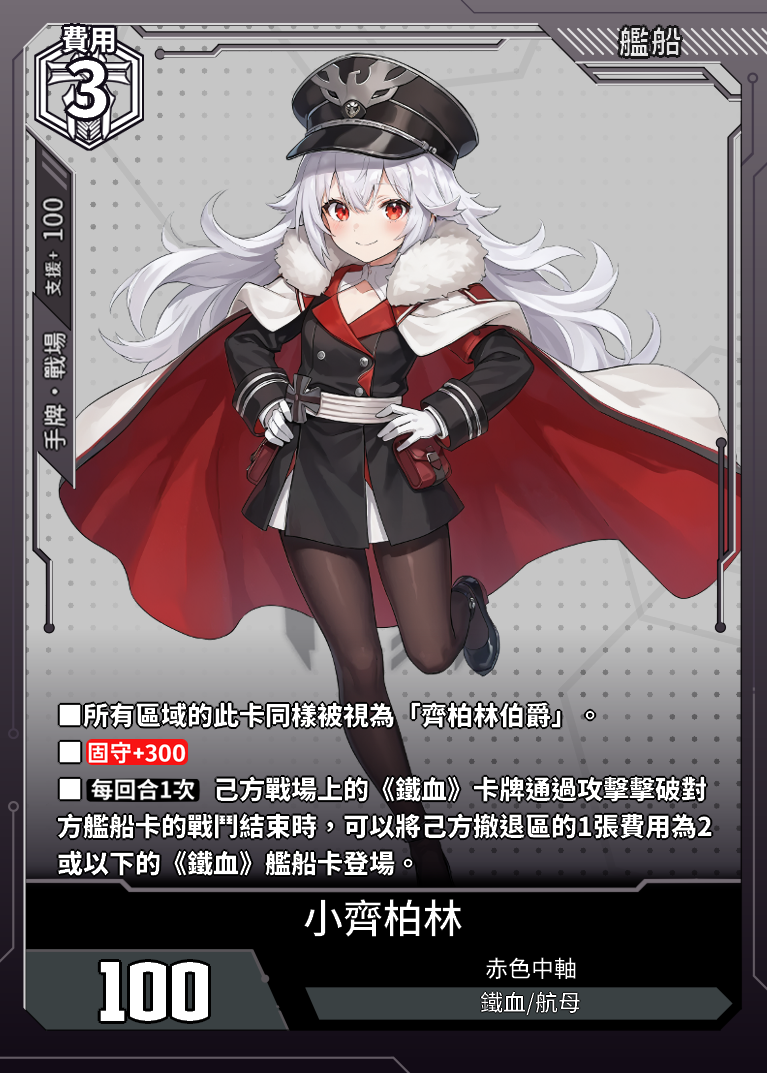
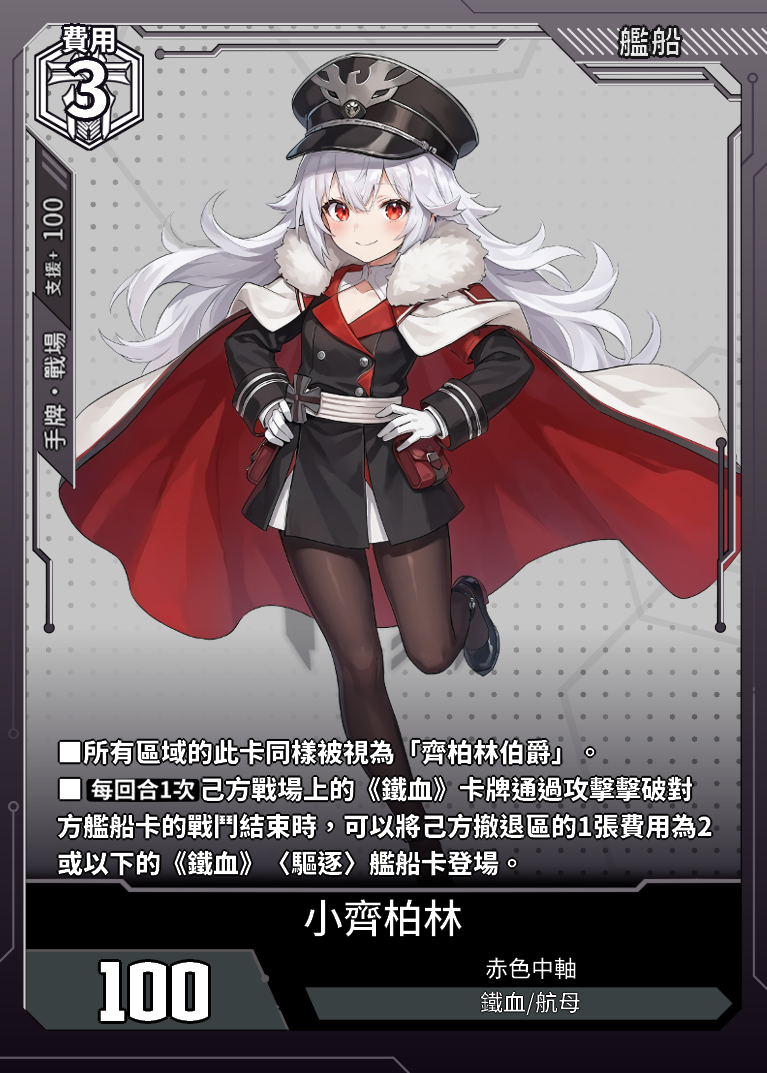
削弱小齊柏林

Changed region(s): [[0.06, 0.6459, 0.9296, 0.8304]]

diff --git a/data.js b/data.js
@@ -25096,7 +25096,7 @@ const cards = [
             "支援範圍": "手牌·戰場",
             "支援值": "100"
         },
-        "card_effect": "■所有區域的此卡同樣被視為「齊柏林伯爵」。■【固守+300】■【每回合1次】己方戰場上的《鐵血》卡牌通過攻擊擊破對方艦船卡的戰鬥結束時，可以將己方撤退區的1張費用為2或以下的《鐵血》艦船卡登場。",
+        "card_effect": "■所有區域的此卡同樣被視為「齊柏林伯爵」。■【每回合1次】己方戰場上的《鐵血》卡牌通過攻擊擊破對方艦船卡的戰鬥結束時，可以將己方撤退區的1張費用為2或以下的《鐵血》〈驅逐〉艦船卡登場。",
         "acquisition_method": "CE02-早期測試"
     },
 	{
